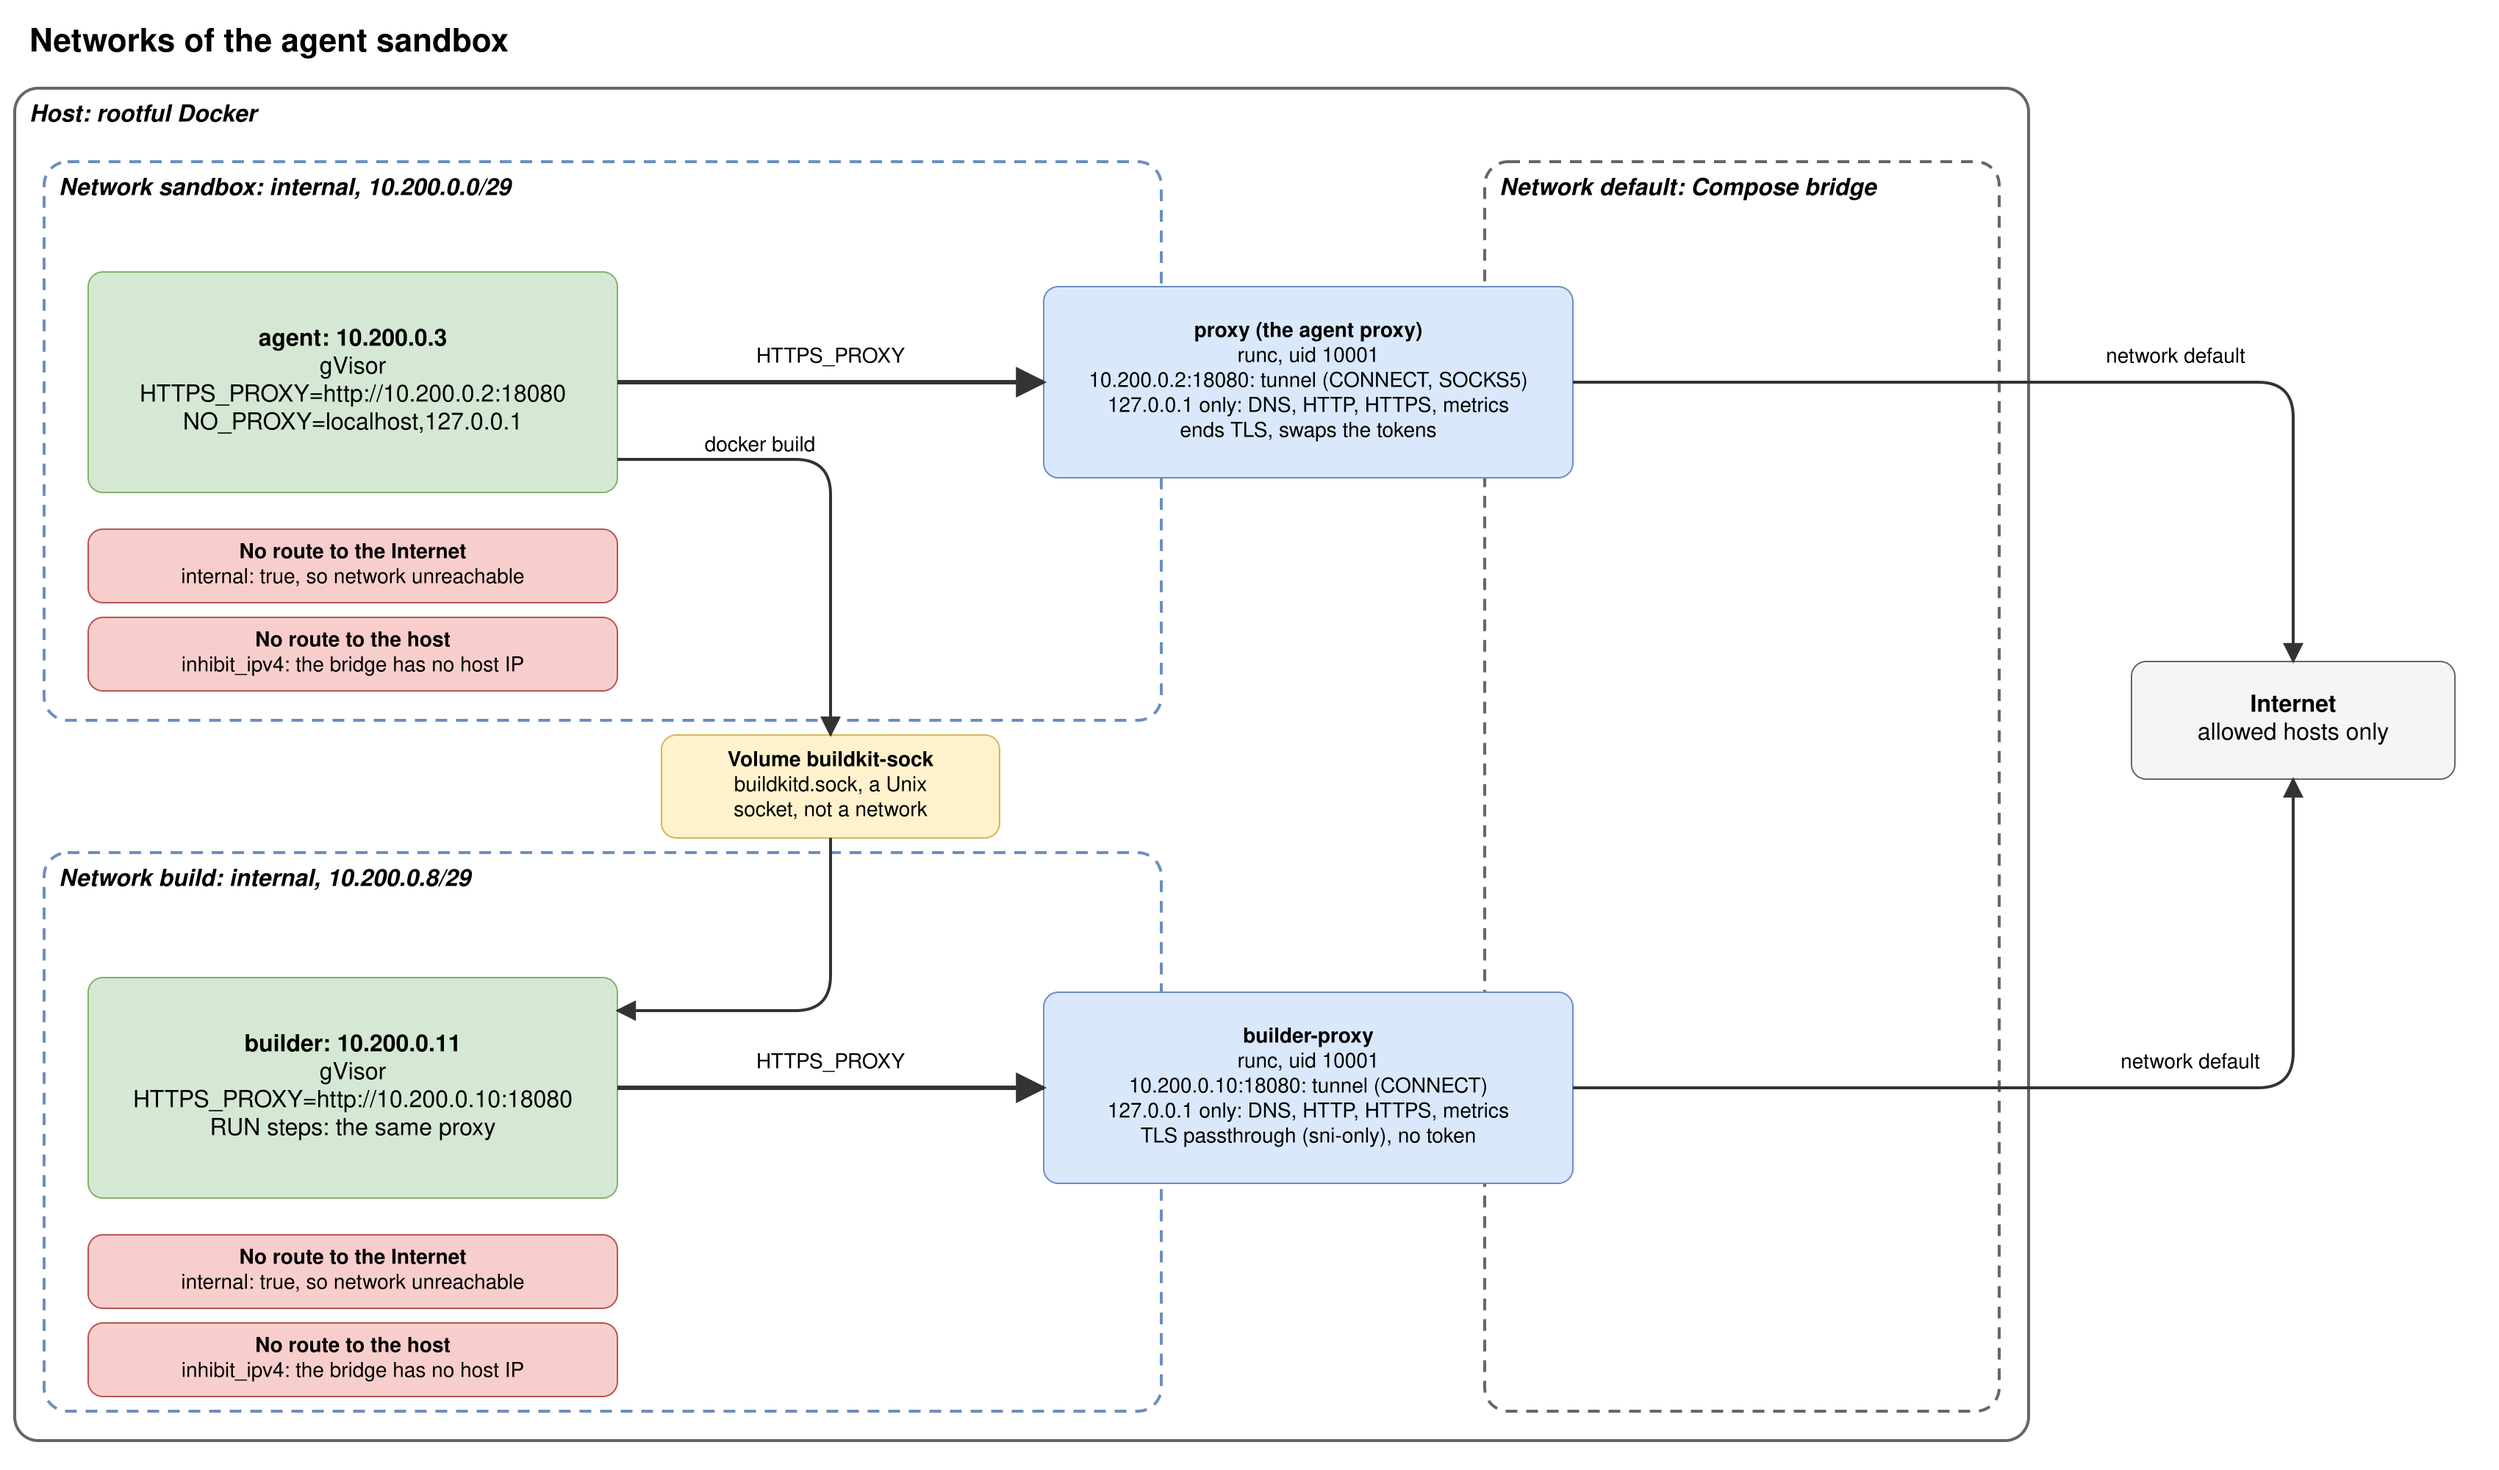
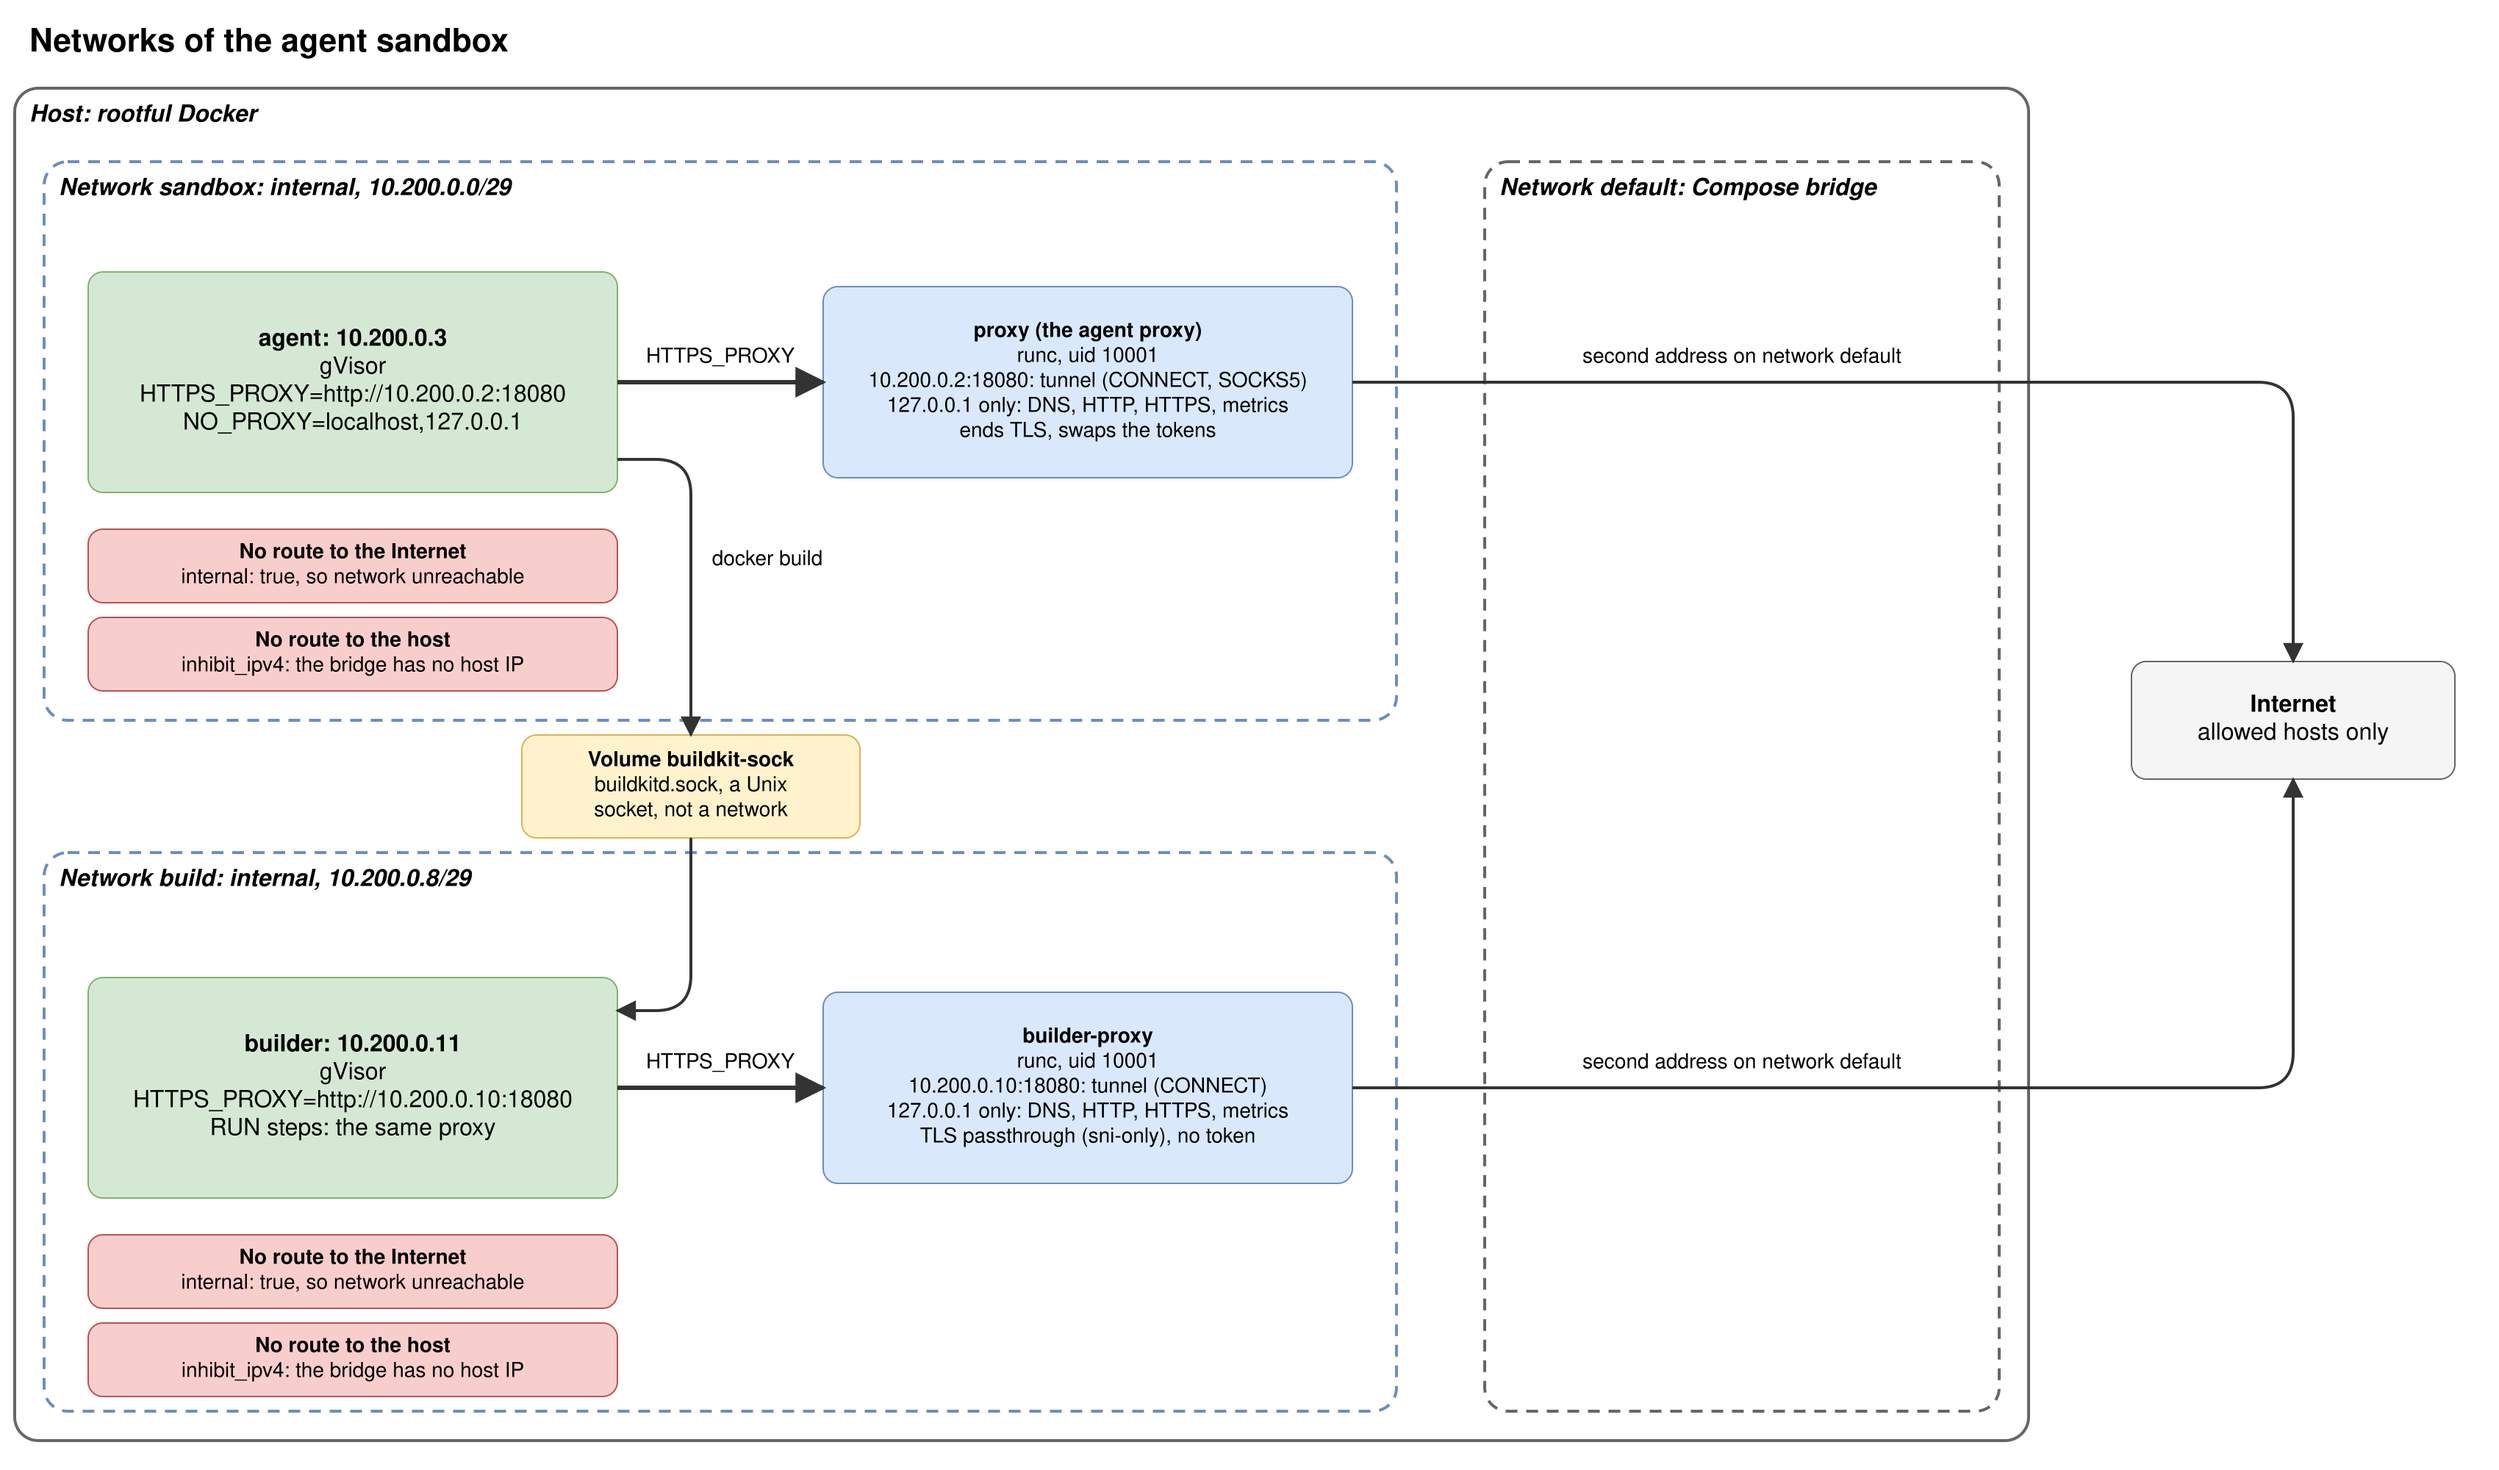
docs: each proxy inside its own subnet in the network diagram
A proxy is on its internal network with a fixed address, and it has a
second address on the network default. The diagram now puts each proxy
inside its subnet, and the arrow to the Internet names that second
address.

diff --git a/.devcontainer/docs/diagrams/README.md b/.devcontainer/docs/diagrams/README.md
@@ -5,7 +5,7 @@
 | `architecture.drawio` | Source of the architecture diagram. Shows the host, the two internal Docker networks and the Internet. On the host: Bitwarden, `init.sh`, the tmpfs folder `$XDG_RUNTIME_DIR/sandbox-secrets`, your terminal and the repo. Each arrow starts at the part that acts: `init.sh` fetches from Bitwarden and writes the folder, and the agent and the agent proxy read the folder with straight arrows up into it. The network `sandbox` holds the agent container and the agent proxy. The network `build` holds the builder container and the builder proxy. Each gVisor container is two nested boxes: the Docker container with its IP and limits, then gVisor. The volume `buildkit-sock` sits between the two networks. It is the only link between the agent and the builder. Each proxy reaches the Internet on the Compose network `default`. |
 | `architecture.svg` | The diagram as a plain SVG with real `<text>` elements and a white background. Drawn from the coordinates of the `.drawio` file. |
 | `architecture.png` | The PNG of the SVG, 2x with a white background. |
-| `network.drawio` | Source of the network diagram. A host box holds the three Docker networks: `sandbox` and `build` (internal, /29) on the left, `default` (the Compose bridge) on the right. Each proxy box crosses the border of two networks, because it has an address on both. Each proxy box lists its tunnel address and its loopback listeners. Red notes in each internal network name the two blocked routes: to the Internet (`internal: true`) and to the host (`inhibit_ipv4`). The volume `buildkit-sock` sits between the internal networks, as a socket and not a network. Each arrow is straight or has right-angle bends with rounded corners (`curved=0`). |
+| `network.drawio` | Source of the network diagram. A host box holds the three Docker networks: `sandbox` and `build` (internal, /29) on the left, `default` (the Compose bridge) on the right. Each proxy sits in its own internal network with its fixed address. Its arrow to the Internet crosses the network `default`, where the proxy has its second address. Each proxy box lists its tunnel address and its loopback listeners. Red notes in each internal network name the two blocked routes: to the Internet (`internal: true`) and to the host (`inhibit_ipv4`). The volume `buildkit-sock` sits between the internal networks, as a socket and not a network. Each arrow is straight or has right-angle bends with rounded corners (`curved=0`). |
 | `network.svg` | The network diagram as a plain SVG, drawn in the same way. |
 | `network.png` | The PNG of that SVG, 2x with a white background. |
 | `security-controls.drawio` | Source of the security controls diagram. Two lanes mirror each other around a `Host kernel` box: the agent sandbox above it and the builder below it. Each lane goes from the sandbox through its internal network to a proxy container and the Internet. At the top right, `init.sh` fetches the tokens from Bitwarden and writes the tmpfs folder, and the agent proxy reads that folder. Each arrow starts at the part that acts. A legend at the bottom names the colors. Each arrow is straight or has right-angle bends with rounded corners (`curved=0`). The diagram is the list of controls in the section "Security controls" of `../../README.md`. When you edit it, keep the lanes mirrored in size, position and layout. Keep each title 10 px from the left edge and 8 px from the outer edge. Keep each arrow label 8 px from its line and each arrow 2 px thick. |
